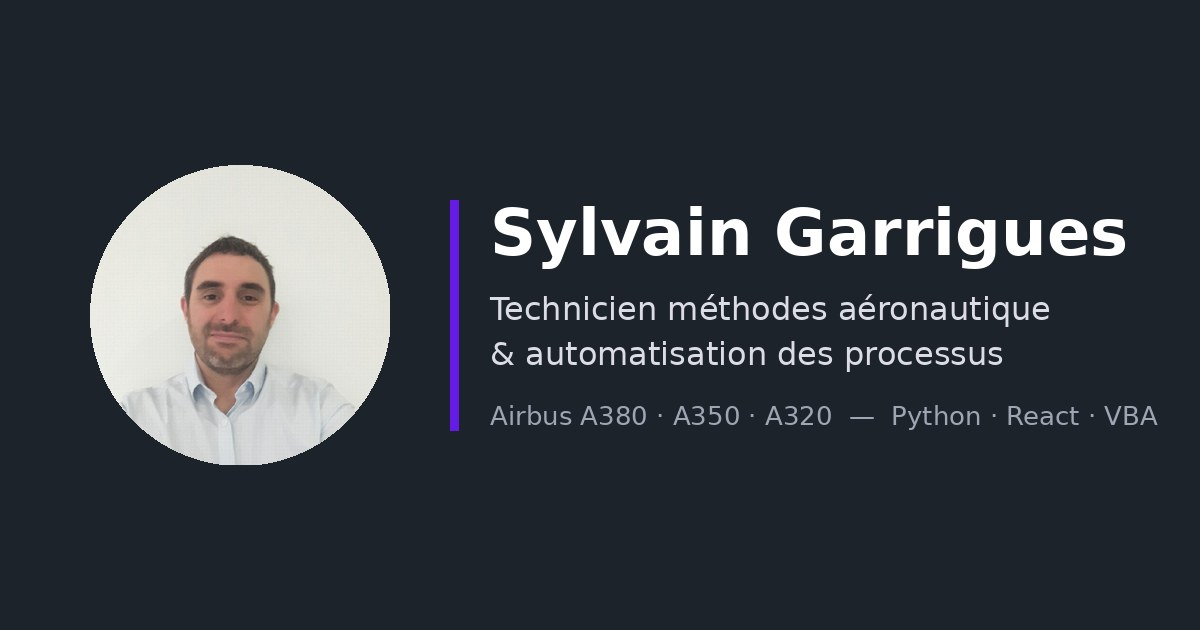
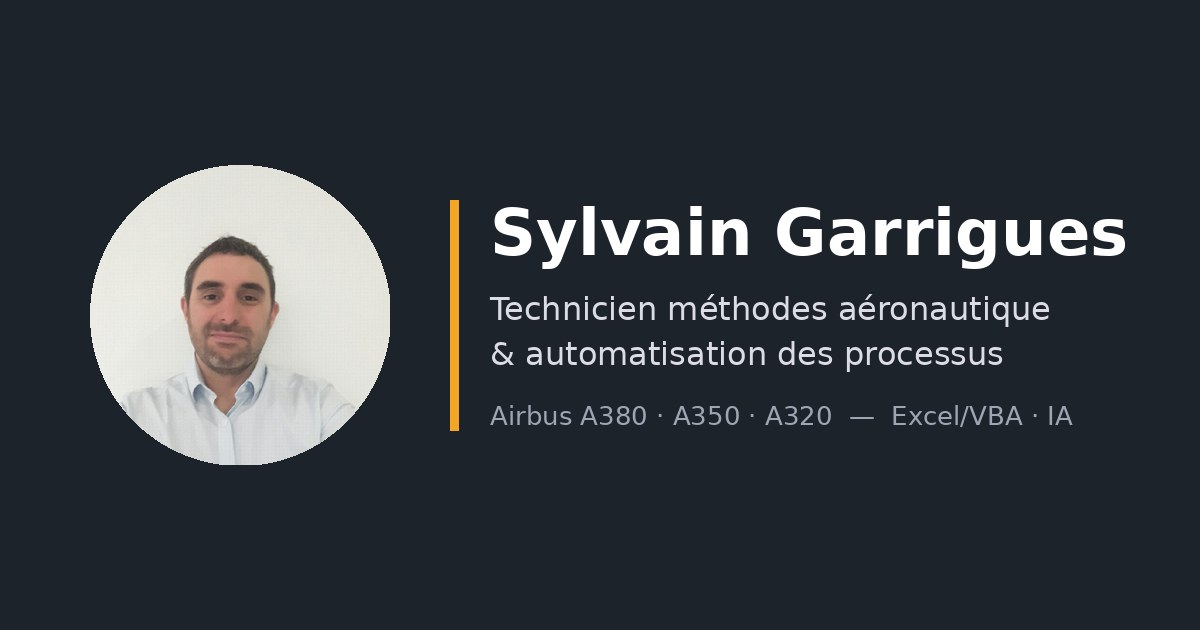
Ajuste la présentation du CV et des compétences IA

Changed region(s): [[0.37, 0.3016, 0.4008, 0.6937], [0.74, 0.6333, 0.8942, 0.6937], [0.925, 0.6333, 0.9558, 0.6937]]

diff --git a/index.html b/index.html
@@ -4,7 +4,7 @@
   <meta charset="utf-8">
   <meta name="viewport" content="width=device-width, initial-scale=1">
   <title>Sylvain Garrigues – Technicien méthodes aéronautique & automatisation</title>
-  <meta name="description" content="Technicien méthodes aéronautique (Airbus A380, A350, A320). J'automatise les processus industriels avec Python, React, VBA et les outils d'IA comme Claude.">
+  <meta name="description" content="Technicien méthodes aéronautique (Airbus A380, A350, A320). J'automatise les processus industriels avec Excel/VBA et les outils d'IA comme Claude.">
   <link rel="canonical" href="https://sylvain82.github.io/">
   <link rel="icon" href="assets/img/favicon.svg" type="image/svg+xml">
 
@@ -12,7 +12,7 @@
   <meta property="og:type" content="website">
   <meta property="og:locale" content="fr_FR">
   <meta property="og:title" content="Sylvain Garrigues – Technicien méthodes aéronautique & automatisation">
-  <meta property="og:description" content="Technicien méthodes aéronautique (Airbus A380, A350, A320). J'automatise les processus industriels avec Python, React et VBA.">
+  <meta property="og:description" content="Technicien méthodes aéronautique (Airbus A380, A350, A320). J'automatise les processus industriels avec Excel/VBA et les outils d'IA comme Claude.">
   <meta property="og:url" content="https://sylvain82.github.io/">
   <meta property="og:image" content="https://sylvain82.github.io/assets/img/social_img.jpg">
   <meta name="twitter:card" content="summary_large_image">
@@ -55,7 +55,7 @@
             Depuis 2004, j'accompagne la production aéronautique — d'abord sur les programmes Airbus A380, A350 et A320
             à Toulouse, aujourd'hui chez JVAeroservices à Montauban. Ma particularité&nbsp;: je développe moi-même les
             outils qui font gagner du temps aux équipes, du classeur VBA à l'application web complète, en m'appuyant
-            sur les assistants IA comme Claude pour concevoir et coder plus vite.
+            sur les assistants IA comme Claude quand c'est utile.
           </p>
           <div class="btn-row">
             <a class="btn btn--primary" href="cv.html">Voir mon CV</a>
@@ -93,12 +93,12 @@
           <div class="feature">
             <div class="feature__icon" aria-hidden="true">⚙</div>
             <h3>Automatisation &amp; développement</h3>
-            <p>Outils Excel/VBA, scripts Python et applications web (React, FastAPI, PostgreSQL) pour supprimer les tâches répétitives des équipes.</p>
+            <p>Outils Excel/VBA et applications web pour supprimer les tâches répétitives des équipes.</p>
           </div>
           <div class="feature">
             <div class="feature__icon" aria-hidden="true">🤖</div>
             <h3>IA appliquée au développement</h3>
-            <p>J'utilise au quotidien les assistants IA comme Claude (Claude Code, API Claude) pour écrire, déboguer et documenter le code, et j'intègre l'IA dans les outils eux-mêmes, par exemple pour lire et classer des documents.</p>
+            <p>J'utilise de temps en temps les assistants IA comme Claude pour créer des macros Excel ou de petits programmes d'extraction de données, et gagner du temps sur les tâches répétitives.</p>
           </div>
         </div>
       </div>

diff --git a/assets/js/data.js b/assets/js/data.js
@@ -30,7 +30,7 @@ window.SITE_DATA = {
       resume:
         "Gammes de travail pour les chantiers du site (Airbus, Dassault, Inmarsat…) et développement d'outils internes pour automatiser le suivi de production.",
       description:
-        "De retour chez JVAeroservices, je reprends la fonction de technicien méthodes. En parallèle, je développe des outils internes pour automatiser le suivi de production : tableaux de bord Excel/VBA alimentés par SILOG, numérisation et classement automatique des documents en Python, application web de gestion des commandes. Je m'appuie sur les assistants IA (Claude) pour accélérer le développement et j'intègre l'IA dans certains outils, par exemple pour lire et classer des documents.",
+        "De retour chez JVAeroservices, je reprends la fonction de technicien méthodes. En parallèle, je développe des outils internes pour automatiser le suivi de production : tableaux de bord Excel/VBA alimentés par SILOG. J'utilise de temps en temps Claude pour créer des macros Excel ou de petits programmes d'extraction de données.",
     },
     {
       poste: "Préparateur technique programme A320",
@@ -129,11 +129,11 @@ window.SITE_DATA = {
     },
     {
       titre: "Développement & automatisation",
-      items: ["Python", "VBA / Excel", "React", "FastAPI", "PostgreSQL", "JavaScript", "PHP / Symfony", "Git"],
+      items: ["VBA / Excel", "JavaScript", "PHP / Symfony", "Git"],
     },
     {
       titre: "IA & assistants de code",
-      items: ["Claude", "Claude Code", "API Claude (vision, analyse de documents)", "Prompt engineering", "Relecture et test du code généré"],
+      items: ["Claude", "Macros Excel assistées par IA", "Extraction de données"],
     },
     {
       titre: "Organisation",

diff --git a/portfolio.html b/portfolio.html
@@ -4,7 +4,7 @@
   <meta charset="utf-8">
   <meta name="viewport" content="width=device-width, initial-scale=1">
   <title>Portfolio – Sylvain Garrigues</title>
-  <meta name="description" content="Outils métier et projets de Sylvain Garrigues : gestion des commandes (React, FastAPI), numérisation automatique, tableaux de bord Excel/VBA.">
+  <meta name="description" content="Projets de Sylvain Garrigues : outils internes et projets web réalisés en JavaScript.">
   <link rel="canonical" href="https://sylvain82.github.io/portfolio.html">
   <link rel="icon" href="assets/img/favicon.svg" type="image/svg+xml">
 
@@ -12,7 +12,7 @@
   <meta property="og:type" content="website">
   <meta property="og:locale" content="fr_FR">
   <meta property="og:title" content="Portfolio – Sylvain Garrigues">
-  <meta property="og:description" content="Outils métier et projets de Sylvain Garrigues : gestion des commandes (React, FastAPI), numérisation automatique, tableaux de bord Excel/VBA.">
+  <meta property="og:description" content="Projets de Sylvain Garrigues : outils internes et projets web réalisés en JavaScript.">
   <meta property="og:url" content="https://sylvain82.github.io/portfolio.html">
   <meta property="og:image" content="https://sylvain82.github.io/assets/img/social_img.jpg">
   <meta name="twitter:card" content="summary_large_image">

diff --git a/cv.html b/cv.html
@@ -60,7 +60,8 @@
         <h1>CV</h1>
         <p class="lead">
           Mon parcours est tourné vers l'aéronautique : près de 15 ans sur le site Airbus de Toulouse (AAA puis Expleo),
-          sur les programmes A380, A350 et A320, puis chez JVAeroservices à Montauban. En 2021, j'ai complété ce parcours
+          sur les programmes A380, A350 et A320, puis chez JVAeroservices à Montauban.<br>
+          En 2021, j'ai complété ce parcours
           par une licence de concepteur d'applications, que je mets aujourd'hui au service de l'automatisation des
           processus industriels, avec l'appui des outils d'IA comme Claude.
         </p>
